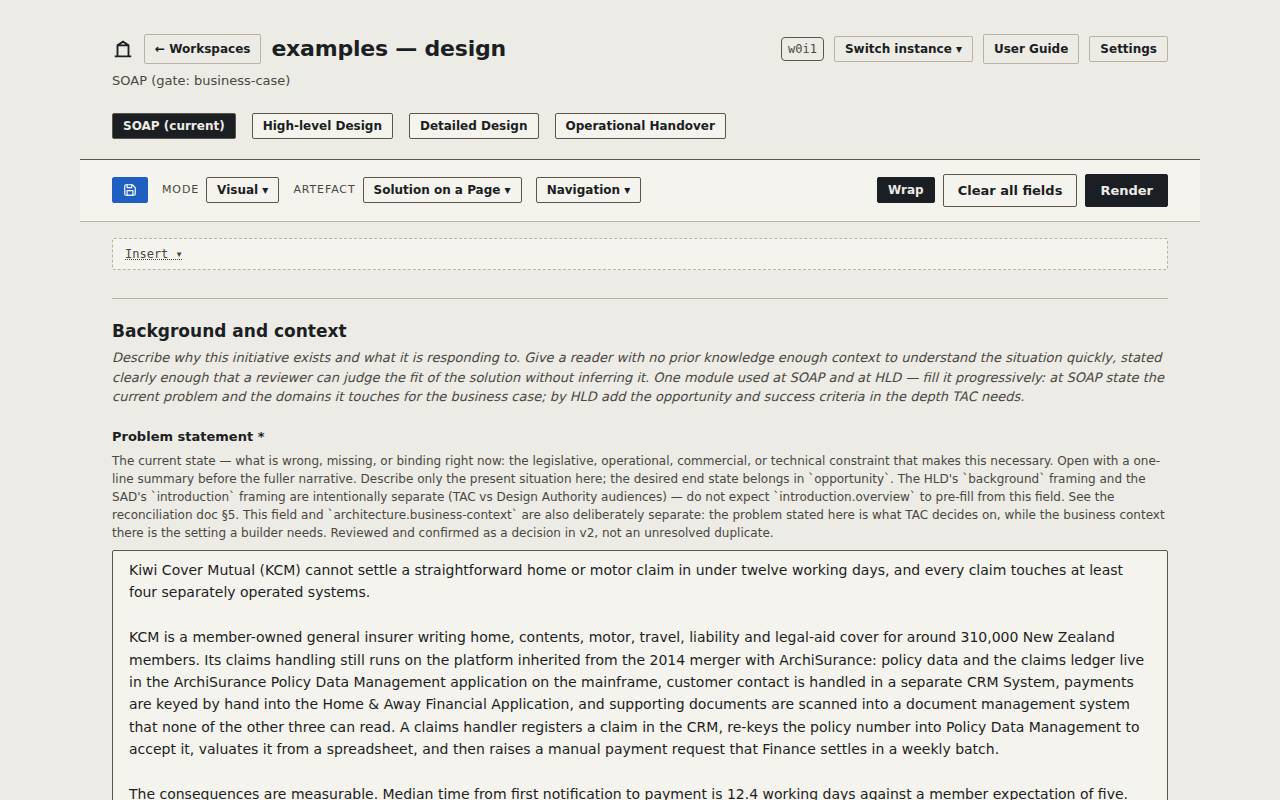
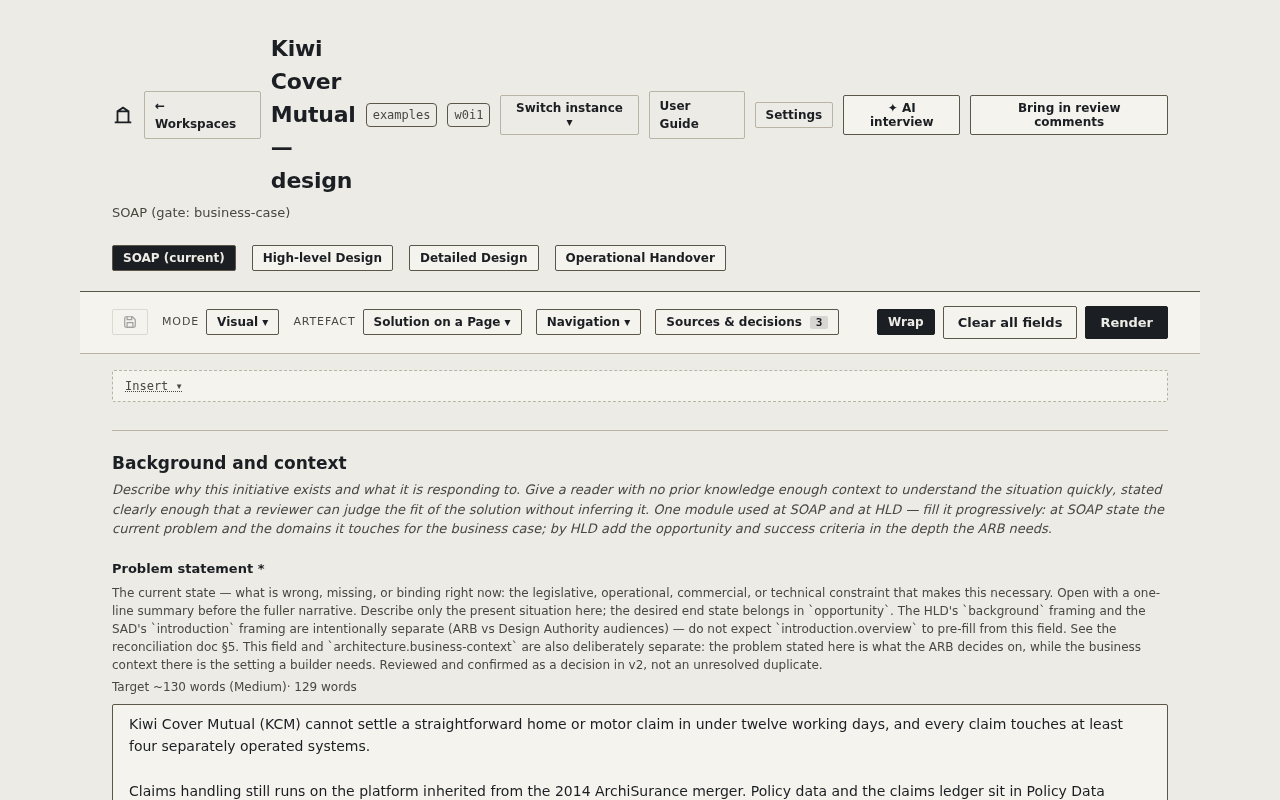
Sources & decisions tidy-ups: guide names Synced fields, toolbar screenshot shows the toggle, one reader for every Stage's decisions log (#320)
Claude-Session: https://claude.ai/code/session_01LrNCncKxr6VeHMRQbNG8rD

diff --git a/web/app.js b/web/app.js
@@ -5010,13 +5010,14 @@ function ReviewCommentsPanel({ instance }) {
   }
   // #304 (ADR-0066): the Review response list, made on demand from the decisions logs. Nothing is written to the Reviewed copy or committed.
   const decisionsStore = useDecisionsStore(instance)
+  const readStageLogs = async (stages) => Object.fromEntries(await Promise.all(stages.map(async (st) => [st.id, await decisionsStore.read(st.id).catch(() => null)])))
   const [response, setResponse] = useState({ phase: 'idle', message: '' })
   async function downloadResponseList() {
     setResponse({ phase: 'working', message: '' })
     try {
       const structure = await loadDefinitionStructure(instance)
       const stages = structure.stages ?? instance.stages
-      const logs = Object.fromEntries(await Promise.all(stages.map(async (st) => [st.id, await decisionsStore.read(st.id).catch(() => null)])))
+      const logs = await readStageLogs(stages)
       const modules = modulesWithStandard(structure.modules, structure.standardModules)
       const fieldTitle = (fieldKey) => {
         const [moduleId, ...rest] = String(fieldKey).split('.')
@@ -5060,7 +5061,7 @@ function ReviewCommentsPanel({ instance }) {
       if (live) reviewSummary.value = { key: instance.slug, copies: state.copies.length, unanswered: unansweredThreadCount(state.copies, logs), error: state.phase === 'error' }
     }
     if (state.copies.length === 0 || !decisionsStore) publish({})
-    else Promise.all(instance.stages.map(async (st) => [st.id, await decisionsStore.read(st.id).catch(() => null)])).then((pairs) => publish(Object.fromEntries(pairs)))
+    else readStageLogs(instance.stages).then(publish)
     return () => {
       live = false
     }

diff --git a/docs/user-guide/index.md b/docs/user-guide/index.md
@@ -399,7 +399,7 @@ Above the modules sits a view-mode bar. It starts with the **Save** button (a di
 
 **Sources & decisions**, to the right of **Navigation ▾**, switches the page between the Stage's Fields and what you work *from*: the **Source documents**, the **Review comments** and the **Decisions log**. It keeps those three out of the way while you write, so the Fields start right under the toolbar.
 
-- **Off** (how the editor always opens; it isn't remembered from one visit to the next) shows the Fields, with the panels that tell you about the Stage's state and what to do next above them, as before: Re-open stage, a merged approval, **Out of date** and **Changed since approval**.
+- **Off** (how the editor always opens; it isn't remembered from one visit to the next) shows the Fields, with the panels that tell you about the Stage's state and what to do next above them, as before: Re-open stage, a merged approval, **Out of date**, **Changed since approval** and, in advanced mode, **Synced fields**.
 - **On** shows only the Source documents, the Review comments and the Decisions log, in that order, under the toolbar. The Fields and the panels above them are out of sight until you switch back.
 - **Nothing is lost by switching.** The Fields are only hidden: what you have typed stays, **Save** still shows that you have unsaved changes, and you can save while it is on. Switching back returns you to the place in the Fields you left.
 - **A number on the button** says how many things are waiting for you: review comment threads not yet answered, plus the Stage's open questions in the Decisions log. There is no number when nothing is waiting.
